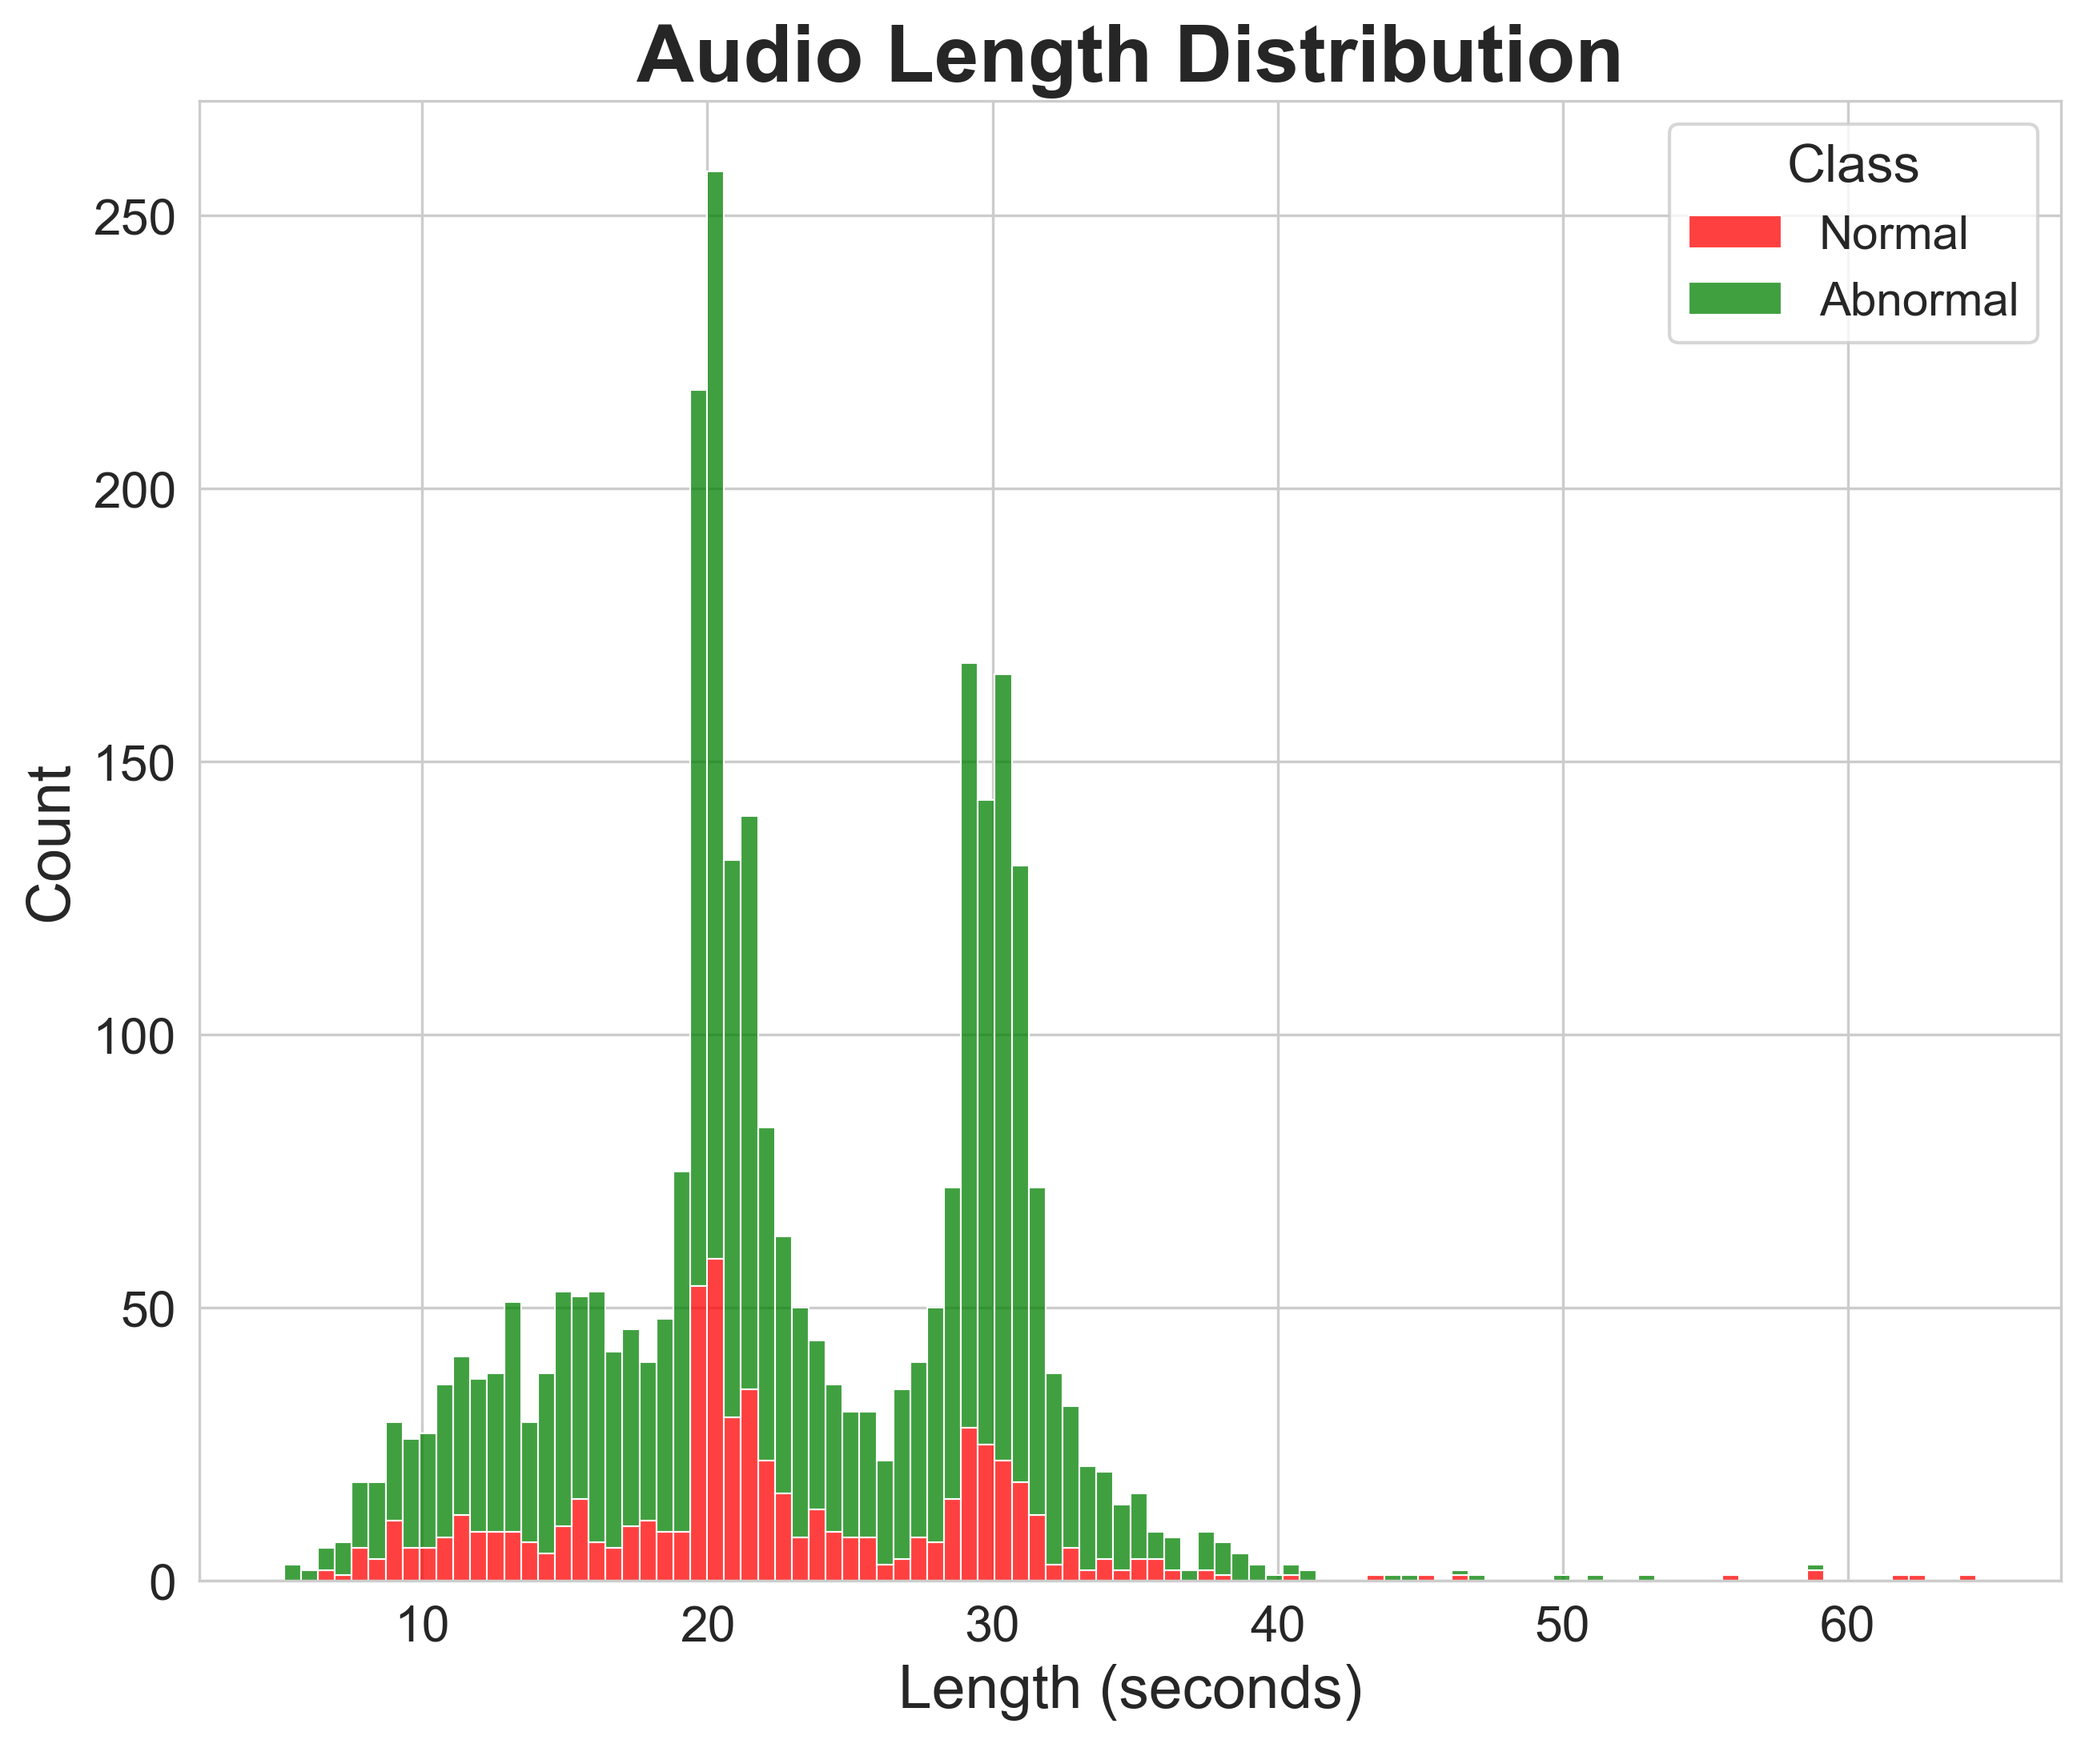
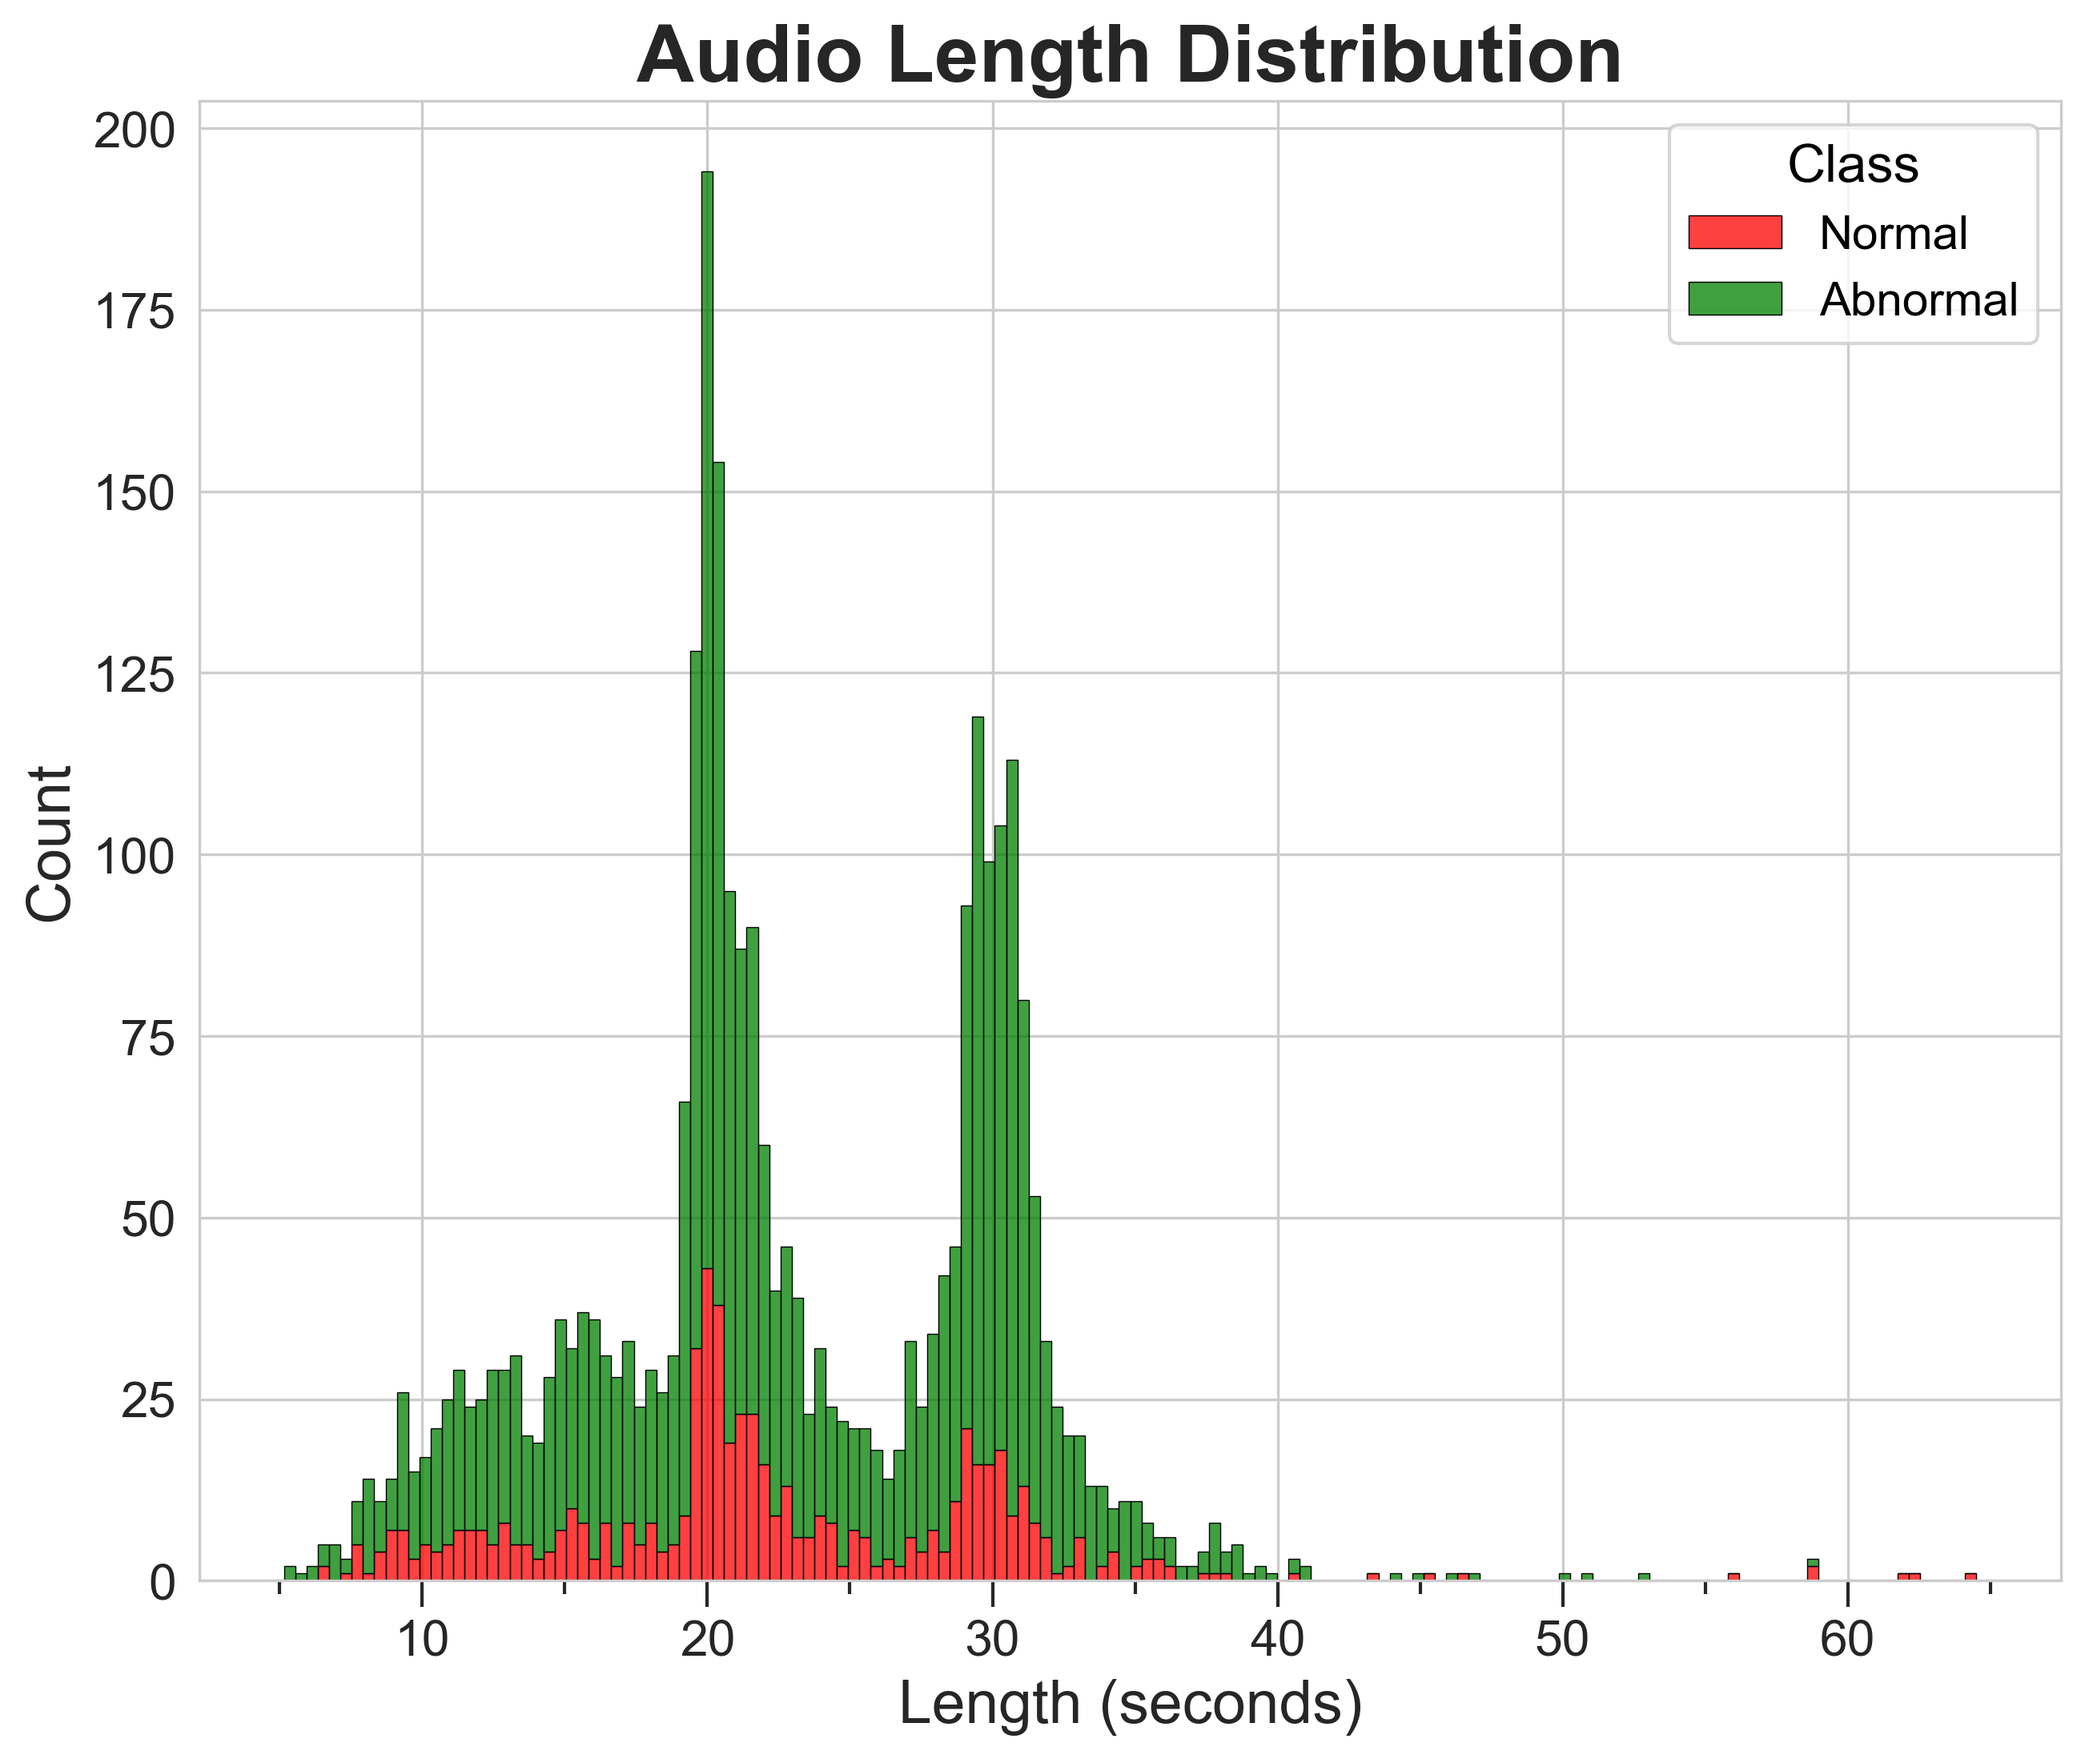
Plot data satistics  updates

diff --git a/build_dataset.py b/build_dataset.py
@@ -419,34 +419,72 @@ def save_statistics(dataset: AudioDataset, stats_dir: Path):
 
 def plot_class_distribution(data, ax, colors):
 	class_counts = data[const.META_LABEL_1].value_counts()
-	ax.pie(class_counts, labels=["Normal", "Abnormal"], colors=colors, autopct="%1.1f%%", 
-		   textprops={"fontsize": 14, "fontweight": "bold"})
-	ax.set_title("Class Distribution", fontsize=24, fontweight="bold")
+	total = class_counts.sum()
+
+	def make_autopct(values):
+		def my_autopct(pct):
+			count = int(round(pct/100.*total))
+			return f"{count}\n{pct:.1f}%"
+		return my_autopct
+
+	ax.pie(class_counts, labels=["Normal", "Abnormal"], colors=colors,
+		autopct=make_autopct(class_counts),
+		textprops={"fontsize": 14, "fontweight": "bold"})
+
+	ax.set_title(f"Class Distribution ({total} Samples)", fontsize=24, fontweight="bold")
 
 def plot_audio_length_distribution(data, seconds, ax, colors):
-	sns.histplot(data=data, x=seconds, hue=data[const.META_LABEL_1].map({0: "Normal", 1: "Abnormal"}),
-				 palette=colors, multiple="stack", kde=False, ax=ax, bins=100)
-	ax.set_title("Audio Length Distribution", fontsize=24, fontweight="bold")
-	ax.set_xlabel("Length (seconds)", fontsize=18)
-	ax.set_ylabel("Count", fontsize=18)
-	ax.tick_params(axis="both", which="major", labelsize=15)
-	ax.legend(title="Class", labels=["Normal", "Abnormal"], fontsize=14, title_fontsize=16)
+	with plt.style.context('default'):
+		ax.grid(False)
+
+		sns.histplot(data=data, x=seconds, hue=data[const.META_LABEL_1].map({0: "Normal", 1: "Abnormal"}),
+					palette=colors, multiple="stack", kde=False, ax=ax, bins=150)
+
+		ax.set_title("Audio Length Distribution", fontsize=24, fontweight="bold")
+		ax.set_xlabel("Length (seconds)", fontsize=18)
+		ax.set_ylabel("Count", fontsize=18)
+
+		ax.grid(True)
+		# X-Achsen Ticks
+		ax.xaxis.set_major_locator(plt.MultipleLocator(10))
+		ax.xaxis.set_minor_locator(plt.MultipleLocator(5))
+
+		# Tick Größen und Sichtbarkeit explizit setzen
+		ax.tick_params(axis='x', which='both', bottom=True)
+		ax.tick_params(axis='x', which='major', length=8, width=1, labelsize=15)
+		ax.tick_params(axis='x', which='minor', length=4, width=1, labelsize=12)
+		ax.tick_params(axis='y', which='major', labelsize=15)
+
+		# Minor ticks für beide Achsen aktivieren
+		for axis in [ax.xaxis, ax.yaxis]:
+			axis.set_tick_params(which='minor', bottom=True, top=False)
+
+		ax.legend(title="Class", labels=["Normal", "Abnormal"], fontsize=14, title_fontsize=16)
 
 def plot_bpm_distribution(data, ax, colors):
 	sns.histplot(data=data, x="bpm", hue=data[const.META_LABEL_1].map({0: "Normal", 1: "Abnormal"}),
-				 palette=colors, multiple="stack", kde=False, ax=ax, bins=100)
+				 palette=colors, multiple="stack", kde=False, ax=ax, bins=150)
 	ax.set_title("BPM Distribution", fontsize=24, fontweight="bold")
 	ax.set_xlabel("Beats Per Minute", fontsize=18)
 	ax.set_ylabel("Count", fontsize=18)
+	ax.grid(True)
+	# X-Achsen Ticks
+	ax.xaxis.set_major_locator(plt.MultipleLocator(25))
+	#ax.xaxis.set_minor_locator(plt.MultipleLocator(25))
+
+	# Tick Größen und Sichtbarkeit explizit setzen
+	ax.tick_params(axis='x', which='both', bottom=True)
+	ax.tick_params(axis='x', which='major', length=8, width=1, labelsize=15)
+	#ax.tick_params(axis='x', which='minor', length=4, width=1, labelsize=12)
+	ax.tick_params(axis='y', which='major', labelsize=15)
+
+	# Minor ticks für beide Achsen aktivieren
+	#for axis in [ax.xaxis, ax.yaxis]:
+	#	axis.set_tick_params(which='minor', bottom=True, top=False)
 	ax.legend(title="Class", labels=["Normal", "Abnormal"], fontsize=14, title_fontsize=16)
-	ax.tick_params(axis="both", which="major", labelsize=14)
 
 def generate_text_content(data, seconds):
-	class_counts = data[const.META_LABEL_1].value_counts()
-	text_content = f"Total samples: {len(data)}\n"
-	text_content += f"Normal: {class_counts[0]} ({class_counts[0]/len(data)*100:.1f}%)\n"
-	text_content += f"Abnormal: {class_counts[1]} ({class_counts[1]/len(data)*100:.1f}%)\n\n"
-	text_content += f"Audio Length Statistics:\n"
+	text_content = 	f"Audio Length Statistics:\n"
 	text_content += f"  Average (All): {seconds.mean():.2f}s\n"
 	text_content += f"  Average (Normal): {seconds[data[const.META_LABEL_1] == 0].mean():.2f}s\n"
 	text_content += f"  Average (Abnormal): {seconds[data[const.META_LABEL_1] == 1].mean():.2f}s\n"
@@ -471,7 +509,7 @@ def plot_statistics(dataset: AudioDataset, stats_dir: Path):
 	dataset_name = dataset.__class__.__name__
 	seconds = data[const.META_LENGTH] / dataset.target_samplerate
 	colors = ["green", "red"]
-	
+
 	# Einzelne Plots
 	fig, ax = plt.subplots(figsize=(10, 8))
 	plot_class_distribution(data, ax, colors)
@@ -492,8 +530,8 @@ def plot_statistics(dataset: AudioDataset, stats_dir: Path):
 
 	# Gesamtübersicht
 	sns.set_style("whitegrid")
-	fig = plt.figure(figsize=(20, 16))
-	gs = fig.add_gridspec(3, 2, height_ratios=[2.8, 1.8, 2.8], hspace=0.3)
+	fig = plt.figure(figsize=(18, 16))
+	gs = fig.add_gridspec(3, 2, height_ratios=[2.8, 1.6, 2.8], hspace=0.3)
 
 	fig.suptitle(f"Dataset Statistics for {dataset_name}", fontsize=28, fontweight="bold", y=0.98)
 

diff --git a/plot_audio_signal.py b/plot_audio_signal.py
@@ -36,13 +36,13 @@ class DataAnalysis:
 		self.run.config[const.AUDIO_LENGTH_NORM] = const.LENGTH_NORM_PADDING
 		self.run.config[const.CHUNK_METHOD] = const.CHUNK_METHOD_CYCLES
 		self.run.config[const.CHUNK_PADDING_THRESHOLD] = 0.65
-		self.run.config[const.CHUNK_DURATION] = 15
-		self.run.config[const.CHUNK_HEARTCYCLE_COUNT] = 6
+		self.run.config[const.CHUNK_DURATION] = 7
+		self.run.config[const.CHUNK_HEARTCYCLE_COUNT] = 7
 
-		if self.demo_task == const.TASK_TYPE_TRAINING:
-			self.run.config[const.TRAIN_FRAC] = 0.99
-		else:
-			self.run.config[const.TRAIN_FRAC] = 0.0
+		# if self.demo_task == const.TASK_TYPE_TRAINING:
+		# 	self.run.config[const.TRAIN_FRAC] = 1.0
+		# else:
+		# 	self.run.config[const.TRAIN_FRAC] = 0.0
 
 		self.run.setup_task()
 		self.run.task.dataset.load_file_list()
@@ -169,9 +169,9 @@ class DataAnalysis:
 		if num_samples + offset > len(self.demo_loader):
 			num_samples = len(self.demo_loader) - offset
 		num_gs = 3 if final_only else 7
-		fig = plt.figure(figsize=(5*num_gs, 4*num_samples))
+		fig = plt.figure(figsize=(5*num_gs, 3*num_samples))
 		gs = gridspec.GridSpec(num_samples, num_gs)  # 10 Reihen für die Samples, 5 Spalten für die Subplots
-		for raw_audio, filtered_audio, sgram_raw, sgram_filtered, sgram_augmented, metadata_row, audio_file_name in self.demo_loader:
+		for raw_audio, filtered_audio, augmented_audio, sgram_raw, sgram_filtered, sgram_augmented, metadata_row, audio_file_name in self.demo_loader:
 			audio_file_name = str(audio_file_name[0])
 			audio_path = Path(self.run.task.dataset.dataset_path) / metadata_row[const.META_AUDIO_PATH][0]
 			full_audio, full_sr, padding = AudioUtil.Loading.load_audiofile(audio_path)
@@ -227,12 +227,13 @@ class DataAnalysis:
 				ax3 = plt.subplot(gs[row_index, 0])
 				ax6 = plt.subplot(gs[row_index, 1])
 				ax_text = plt.subplot(gs[row_index, 2])
+				# make right ax field smaller
 				ax3, ax6, ax_text = self.make_singlefile_plot(raw_audio, filtered_audio, full_audio, \
 					sgram_raw, sgram_filtered, sgram_augmented, metadata_row, audio_file_name, \
 					ax=(ax3,ax6,ax_text),final_only=final_only)
 
 			#########
-		#plt.tight_layout()
+		plt.tight_layout()
 
 		if fig_file_name:
 			fig_file_name = f"audio_example_images/{fig_file_name}_{num_samples}_samples_{offset}_offset.png"
@@ -258,8 +259,8 @@ def multiple():
 
 
 def single():
-	analysis = DataAnalysis(const.PHYSIONET_2016)
-	analysis.plot_signal_stats(num_samples=5, offset=19, show=True, fig_file_name=None, final_only=True)
+	analysis = DataAnalysis(const.PHYSIONET_2022)
+	analysis.plot_signal_stats(num_samples=4, offset=25, show=True, fig_file_name=None, final_only=True)
 
 
 if __name__ == "__main__":

diff --git a/project_config.py b/project_config.py
@@ -11,7 +11,7 @@ project_config = {
 	CHUNK_DURATION: 7.0,		# Duration in seconds of each chunked audio split
 	TASK_TYPE: TASK_TYPE_TRAINING,
 	RUN_NAME: "blank_name",
-	EPOCHS: 30,				# Number of epochs to train
+	EPOCHS: 30,					# Number of epochs to train
 
 	BATCH_SIZE: 32,				# Batch size
 	METADATA_FRAC: 1.0,			# Percentage of data to use in the run
@@ -21,7 +21,7 @@ project_config = {
 	TRAIN_DATASET: PHYSIONET_2016,
 	INFERENCE_DATASET: PHYSIONET_2016,
 	INFERENCE_MODEL: None,
-	TRAINING_CHECKPOINT: None,	#	 load checkpoint for training: {EPOCH: 80, RUN_NAME: "run1", FOLD: 1}
+	TRAINING_CHECKPOINT: None,		# load checkpoint for training: {EPOCH: 80, RUN_NAME: "run1", FOLD: 1}
 	AUGMENTATION_RATE: 0.0,			# Percent of data passed to data augmentation pipeline
 	DATALOADER_NUM_WORKERS: 0,		# workers for pytorch dataloader
 	KFOLD_SPLITS: 1,				# number of kfold splits. 1 -> use normal splitting
@@ -51,7 +51,7 @@ project_config = {
 	LEARNING_RATE: 0.001,			# initial learning rate
 	SCHEDULER_FACTOR: 0.1,
 
-	L1_REGULATION_WEIGHT: 0.0,	# L1 weight decay, used with raw loss in step function # TODO test 0 or NOne as default
+	L1_REGULATION_WEIGHT: 0.0,		# L1 weight decay, used with raw loss in step function # TODO test 0 or NOne as default
 	L2_REGULATION_WEIGHT: 0.000001,	# L2 weight decay, passed to optimizer
 	LOSS_FUNCTION: LOSS_FOCAL_LOSS,	# LOSS_CROSS_ENTROPY, LOSS_FOCAL_LOSS
 	LOSS_FUNCTION_PARAMETER_1: 2.0,	# Focal Loss: gamma,

diff --git a/single_file_preview.py b/single_file_preview.py
@@ -71,7 +71,7 @@ def compare_audio_processing(audio_file: Path, config: dict):
 	cycle_markers = row_dict[META_HEARTCYCLES]
 
 	fig, axes = plt.subplots(3, 2, figsize=(20, 16))
-	plt.subplots_adjust(hspace=0.2, wspace=0.5)
+	plt.subplots_adjust(hspace=0.2, wspace=0.4)
 	fig.suptitle(f"Audio Processing Comparison - {chunk_name} class: {row_dict[META_LABEL_1]}", fontsize=16)
 
 	sr = cnn_dataset.target_samplerate
@@ -130,7 +130,7 @@ config.update(config_demo)
 config_override = {
 	TRAIN_DATASET: PHYSIONET_2022,
 	NORMALIZATION: NORMALIZATION_MAX_ABS,
-	CHUNK_DURATION: 25.0,
+	CHUNK_DURATION: 27.0,
 	CHUNK_METHOD: CHUNK_METHOD_FIXED,
 	AUDIO_LENGTH_NORM: LENGTH_NORM_PADDING,
 	# CNN_PARAMS: {
@@ -143,6 +143,6 @@ config_override = {
 
 config.update(config_override)
 
-audio_file = Path("data/physionet2022/training_data/50734_AV.wav")
+audio_file = Path("data/physionet2022/training_data/49824_MV.wav")
 
 compare_audio_processing(audio_file, config)
